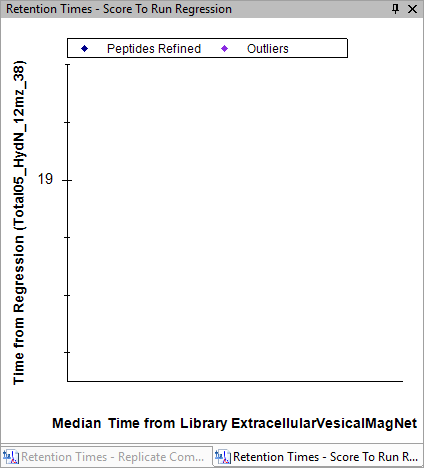
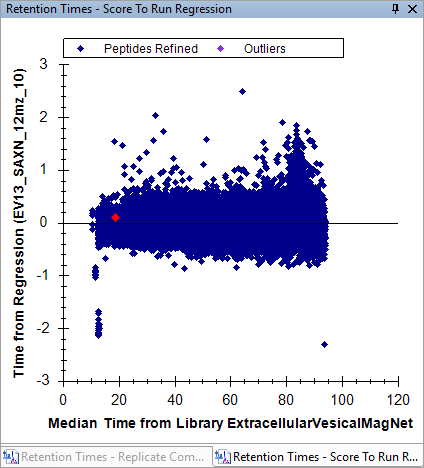
Change tutorial to show residuals instead of trying to zoom in on the graph. Downsample points when doing loess so it's not so slow.

diff --git a/pwiz_tools/Skyline/Documentation/Tutorials/PeakImputationDia/en/index.html b/pwiz_tools/Skyline/Documentation/Tutorials/PeakImputationDia/en/index.html
@@ -134,11 +134,15 @@
         <li>Right-click on the "Retention Times - Score to Run Regression" graph, choose <b>Regression Method</b> and click <b>Loess</b></li>
     </ul>
     <p><img src="s-13.png"/></p>
-    <p>In order to understand why Skyline is putting the imputed peak boundaries in the wrong place for that replicate, zoom in on the red point on the regression graph. One way to do that is:</p>
-    <ul><li>Position the mouse cursor over the red dot on the Retention Time regression plot</li>
-    <li>While holding the <b>Ctrl</b> key on the keyboard, roll the scroll wheel on the mouse upwards.</li>
-    </ul>
-    <p>If your mouse does not have a wheel, there are other gestures which could be used to zoom in on that point such as clicking on the graph and dragging a small rectangle around that point.</p>
+    <p>This graph shows all the peptides which can be found in the Skyline document or in the spectral library.
+    The X-coordinate of each point is the median retention time for the peptide across all of the data files in the spectral library.
+    The Y-coordinate is the retention time of the peptide in the currently selected replicate.
+    The purple points plotted in a horizontal line across the bottom the chart area are the peptides which do not have a peak in the current replicate.
+        The points are plotted there so that you can have something to click on to select peptides with missing peaks.
+        It is hard to see exactly where the red dot relative to the regression line which goes through all of the points.
+        There is another view of this graph which makes it easier to see.
+    </p>
+    <ul><li>Right-click the graph, choose <b>Plot</b>, and click <b>Residuals</b>.</li></ul>
     <p><img src="s-14.png"/></p>
     <ul><li>In the <b>Targets</b> view <b>Replicates</b> dropdown list, select the first item which is the “EV13_SAXN_12mz_10” replicate.</li></ul>
     <p><img src="s-15.png"/></p>

diff --git a/pwiz_tools/Skyline/Model/RetentionTimes/AlignmentTarget.cs b/pwiz_tools/Skyline/Model/RetentionTimes/AlignmentTarget.cs
@@ -599,5 +599,14 @@ namespace pwiz.Skyline.Model.RetentionTimes
                 return IrtDb.ChooseUnknownScore(_dictionary.Values);
             }
         }
+
+        public static LoessRegression CreateLoessRegression(IEnumerable<double> x, IEnumerable<double> y,
+            CancellationToken cancellationToken)
+        {
+            IList<WeightedPoint> weightedPoints = x.Zip(y, (a, b) => new WeightedPoint(a, b)).ToList();
+            weightedPoints = DownsamplePoints(weightedPoints, Settings.Default.RtRegressionBinCount);
+            return new LoessRegression(weightedPoints.Select(pt => pt.X).ToArray(),
+                weightedPoints.Select(pt => pt.Y).ToArray(), true, cancellationToken);
+        }
     }
 }

diff --git a/pwiz_tools/Skyline/Model/DocSettings/Prediction.cs b/pwiz_tools/Skyline/Model/DocSettings/Prediction.cs
@@ -719,7 +719,7 @@ namespace pwiz.Skyline.Model.DocSettings
                     stat = new Statistics(peptideScores.Select(x => regressionFunction.GetY(x)));
                     break;
                 case RegressionMethodRT.loess:
-                    regressionFunction = new LoessRegression(stat.CopyList(), statRT.CopyList(), true, token);
+                    regressionFunction = AlignmentTarget.CreateLoessRegression(stat.CopyList(), statRT.CopyList(), token);
                     stat = new Statistics(peptideScores.Select(x => regressionFunction.GetY(x)));
                     break;
                 default:

diff --git a/pwiz_tools/Skyline/TestTutorial/PeakImputationDiaTutorial.cs b/pwiz_tools/Skyline/TestTutorial/PeakImputationDiaTutorial.cs
@@ -192,7 +192,7 @@ namespace pwiz.SkylineTestTutorial
 
         private void WaitForComplete(GraphSummary graphSummary)
         {
-            WaitForGraphs();
+            //WaitForGraphs();
             WaitForConditionUI(() =>
             {
                 var pane = graphSummary.GraphControl.GraphPane;
